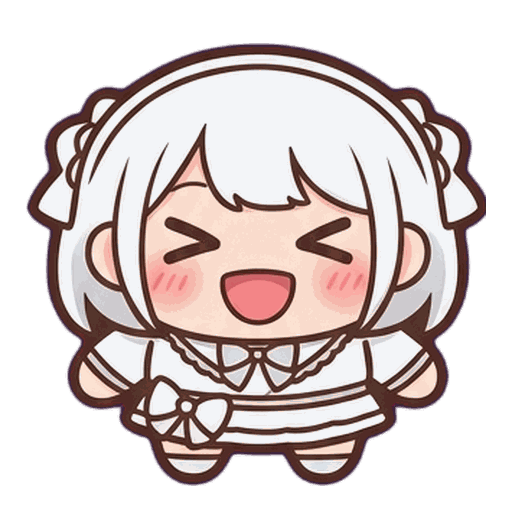
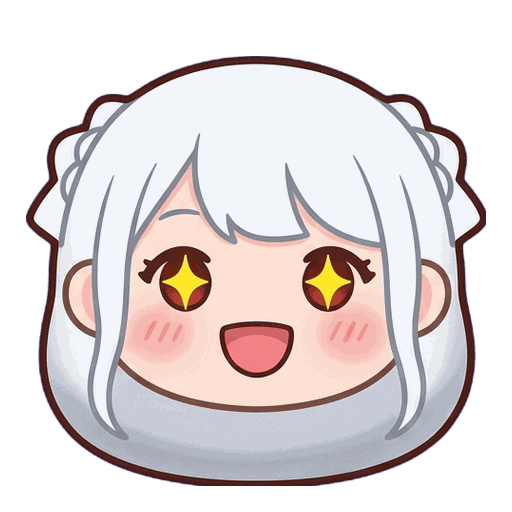
盤面の駒を顔だけ・ぷっくり 3D に作り直す
- 体があると跳ねたときに可愛くない、というオーナーの指摘。くるみで 6 案（ぷっくり 3D／ぬいぐるみ／缶バッジ／飴玉／マシュマロ大福／粘土）を試作して A に決定
- 5 人 × 4 表情（通常・笑顔・はじけ顔・フィーバー顔）の 20 枚を差し替え。フィーバー顔は全員星の目になった
- 結果画面のポーズは全身のまま
- scripts/gen_member_face.py・split_member_face.py（1 人 1 回、2×2 で生成して切り分ける）
- docs/member_pieces_gemini.md に「今の駒」の節

diff --git a/scripts/gen_member_face.py b/scripts/gen_member_face.py
@@ -1,0 +1,65 @@
+"""Generate one member's 4 head-only expressions (style A) with agy, save as raw/face_<key>.png.
+
+usage: python scripts/gen_member_face.py <key>   (repo root; needs raw/members_faces.png and raw/style_A_ref.png)
+Then: python scripts/split_member_face.py <key> assets/skins/members
+Prompt, agy output and errors are kept in raw/agy/ (git-ignored). See docs/member_pieces_gemini.md.
+"""
+import json, os, re, subprocess, sys
+from pathlib import Path
+from PIL import Image
+
+MEMBERS = {  # key: (column in raw/members_faces.png, description, extra fix)
+    'kurumi': (1, 'red hair with a red flower hair ornament', ''),
+    'mayu': (2, 'yellow hair', ''),
+    'mau': (3, 'light blue twin-tail hair', ''),
+    'ami': (4, 'green hair with a light green ribbon', ''),
+    'mana': (5, 'white hair with a white frilled headdress',
+             '- She is white: give her the same bold dark brown outline as the style reference and clear light gray shading on the white hair and headdress, so she is clearly visible on a white background. No white glow or haze.\n'),
+}
+
+PROMPT = """画像を 1 枚生成してください。添付は 2 枚です：raw/members_faces.png（デザインの見本）と raw/style_A_ref.png（質感の見本）。縦横比 1:1、最高解像度。
+画像の生成だけを行ってください。コマンドの実行・ファイルのコピーや変換・ほかのファイルの変更・git 操作はしないでください。
+最後に、生成された画像ファイルのフルパスだけを報告してください。
+
+--- prompt（一字も変えずに使う） ---
+Attachment 1 (members_faces.png) is a character sheet of 5 idols. Use ONLY the character in column {col} ({desc}) as the design reference: same face, eye color, hair color, bangs, hairstyle and hair accessory.
+Attachment 2 (style_A_ref.png) is the style reference: a HEAD-ONLY game piece with a smooth soft vinyl cushion look, soft top-left highlight, gentle shading at the bottom, a small shiny spot on the hair, bold dark brown outline. Match this style, shape and rendering exactly, but with the column {col} character.
+Draw a 2 x 2 grid of 4 pieces of this character, one expression per cell:
+- Top left, normal: glossy eyes with a white highlight, a tiny calm smile, soft pink blush.
+- Top right, happy: eyes closed in happy upward arcs, a small open joyful smile, slightly stronger blush.
+- Bottom left, surprised pop: wide round eyes, small round "O" mouth, puffed cheeks, the head slightly inflated like it is about to burst.
+- Bottom right, fever: sparkling yellow star-shaped eyes, a big wide-open excited smile, strong blush.
+Every piece is HEAD ONLY: no body, no neck, no arms. One plump round shape (a slightly squashed circle, wider than tall), the hair forming the round silhouette, hair accessories small and inside the silhouette. The only difference between the 4 cells is the face; hair, shape, size and lighting are identical.
+{fix}Each piece is centered in its own equal-size cell with a wide empty gap, never touching another piece or the image edges.
+Background: one solid flat magenta #FF00FF, perfectly uniform. No gradient, shadow or glow. Do not use magenta or hot pink on the character.
+Absolutely no text, letters, numbers, symbols or watermark. Square 1:1 image at the highest resolution.
+"""
+
+key = sys.argv[1]
+col, desc, fix = MEMBERS[key]
+out_dir = Path('raw/agy')
+out_dir.mkdir(parents=True, exist_ok=True)
+prompt = PROMPT.format(col=col, desc=desc, fix=fix)
+(out_dir / f'{key}_prompt.txt').write_text(prompt, encoding='utf-8')
+
+if os.environ.get('GEMINI_API_KEY') or os.environ.get('ANTIGRAVITY_API_KEY'):
+    sys.exit('API key is set: abort (would bill the API key instead of the subscription)')
+
+repo = str(Path.cwd())
+r = subprocess.run(['agy', '--output-format', 'json', '--print-timeout', '280s', '--add-dir', repo, '-p', prompt],
+                   capture_output=True, text=True, encoding='utf-8', shell=False)
+(out_dir / f'{key}_out.json').write_text(r.stdout, encoding='utf-8')
+(out_dir / f'{key}_err.txt').write_text(r.stderr, encoding='utf-8')
+try:
+    res = json.loads(r.stdout)
+except json.JSONDecodeError:
+    sys.exit(f'{key}: no JSON (exit {r.returncode}): {r.stderr[-500:]}')
+if res.get('status') != 'SUCCESS':
+    sys.exit(f'{key}: status {res.get("status")}: {res.get("response", "")[:500]}')
+m = re.search(r'[A-Za-z]:\\[^\s"]+\.(?:jpg|jpeg|png)', res.get('response', ''))
+if not m or not Path(m.group(0)).exists():
+    sys.exit(f'{key}: image path not found in response: {res.get("response", "")[:500]}')
+img = Image.open(m.group(0))
+dst = Path('raw') / f'face_{key}.png'
+img.convert('RGB').save(dst)
+print(f'{key}: {img.size} → {dst}  (conversation {res["conversation_id"]})')

diff --git a/scripts/split_member_face.py b/scripts/split_member_face.py
@@ -1,0 +1,16 @@
+"""Split raw/face_<key>.png (2x2: normal, happy / pop, fever) into <out>/<key>{,_happy,_pop,_fever}.png.
+
+usage: python scripts/split_member_face.py <key> <out dir>   (run from the lollpop_puzzle repo root)
+"""
+import subprocess, sys, shutil, tempfile
+from pathlib import Path
+
+key, out = sys.argv[1], Path(sys.argv[2])
+out.mkdir(parents=True, exist_ok=True)
+tmp = Path(tempfile.mkdtemp())
+subprocess.run([sys.executable, 'scripts/prepare_piece.py', f'raw/face_{key}.png', '--grid', '2x2',
+                '--members', 'c1,c2', '--rows', 'r1,r2', '--out', str(tmp)], check=True)
+names = {'c1_r1': key, 'c2_r1': f'{key}_happy', 'c1_r2': f'{key}_pop', 'c2_r2': f'{key}_fever'}
+for src, dst in names.items():
+    shutil.move(tmp / f'{src}.png', out / f'{dst}.png')
+print(key, '→', out)

diff --git a/docs/handoff.md b/docs/handoff.md
@@ -29,7 +29,9 @@
   - `CONFIG.skin.default` を `members` にした（2026-09-15 オーナー指示）。端末に選択が保存されていない人はメンバーの駒で始まる。タイトルの説明文は「同じ色のロリポップを…」のまま（直すかはオーナー次第）
   - **コミット 158335d → Cloudflare プレビューに公開済み**（2026-09-15、オーナー指示。Version 93703fa7）。公開前に `.assetsignore` へ `raw` `sheet*.png` を足した（参照写真を公開しないため）。公開後に `/.git/HEAD` `/raw/…` `/sheet.png` が 404、既定がメンバーの駒になることを確認。**push はまだ**
   - push したら claude-work に判断待ちの Issue を立てる（未 push のうちはリンクが切れるので保留していた）
-- **この作業分の確認は済んだ**（2026-09-15）：参照写真は公式アー写、絵柄とフィーバー顔はこのまま、BGM は合成のオリジナル曲（下の「決定事項」）。結果画面のポーズが少し甘い件は「一旦それで」
+- **駒を顔だけ・ぷっくり 3D に作り直した**（2026-09-15 午後）：くるみで 6 案を試作（`sandbox/lollpop_puzzle_eplus/face_styles/compare.png`）→ オーナーが A → 5 人 × 4 表情を 1 人 1 回ずつ生成（`scripts/gen_member_face.py`）→ `scripts/split_member_face.py` で 20 枚を差し替え。盤面・フィーバー・はじけを撮影で確認（`face_styles/gen/game_cmp.png`）、テスト 40 件通過。**未コミット・未公開**
+  - 気になる点：頭は横長なので、丸い当たり判定の上下に少しすき間が見える。まなのはじけ顔は目が丸い白目ではなく普通の目
+- **この作業分の確認は済んだ**（2026-09-15）：参照写真は公式アー写、BGM は合成のオリジナル曲（下の「決定事項」）。結果画面のポーズが少し甘い件は「一旦それで」
 - **次**：BGM（Web Audio の合成曲）の実装、またはオンボーディング W／A キャンディポップ。どれからにするかオーナーに聞く
 
 ## 目的と締切
@@ -68,7 +70,7 @@
 | 駒の見た目 | スキンで切り替え（飴／メンバー）。プレイヤーがタイトル画面の T8 で選べる。メンバーの絵が無いうちは「準備中」 |
 | メンバーの絵 | Gemini で公式写真からデフォルメを作る。**オーナーが運営に AI 作画の許諾を確認済み**（2026-09-14 申告）。プロンプトは [`member_pieces_gemini.md`](member_pieces_gemini.md) |
 | UI | `lollpop_docs/design.md` には従わない。**A キャンディポップ と E+ かわいいスタイリッシュ の 2 テーマ**をタイトル画面の T9 で切り替える。**E+ から実装**（実装済み）、A は次。E+ の色はラフのままで OK が出た |
-| メンバー駒の絵柄 | **このまま**（2026-09-15）。髪はメンバーカラー、足のある 2 頭身。フィーバー顔の目がそろっていない（星の目はくるみ・まゆだけ、まなは「><」）のも**このまま** |
+| メンバー駒の絵柄 | **盤面の駒は顔だけ・ぷっくり 3D**（2026-09-15 午後。体があると跳ねたときに可愛くない、とオーナー）。6 案の試作から A を選んだ。髪はメンバーカラー、フィーバー顔は全員星の目。**結果画面のポーズは全身のまま**。手順は [`member_pieces_gemini.md`](member_pieces_gemini.md) の「今の駒」 |
 | 参照写真の出典 | `lollpop_docs/work/game_assets/ref/members*.jpg` は**公式アー写**（2026-09-15 オーナー回答） |
 | BGM | **合成のオリジナル曲**（Web Audio でコードから鳴らす）に決定（2026-09-15）。requirements.md の「やらないこと」から外す |
 | リポジトリ | `devhitoshi/lollpop_puzzle`（公開） |

diff --git a/docs/member_pieces_gemini.md b/docs/member_pieces_gemini.md
@@ -19,6 +19,21 @@
 - 跳ねる・潰れる・揺れる・吹き飛ぶといった**動きはコードで作る**ので、コマ送りの絵は要らない
 - 無い絵は自動で代わりを使う（はじけ顔 → 笑顔 → 通常、フィーバー顔 → 通常、ポーズ → 出さない）。途中までの絵でも遊べる
 
+## 今の駒：顔だけ・ぷっくり 3D（2026-09-15〜）
+
+オーナーの判断：体があると跳ねたときに可愛くないので、**盤面の駒は顔だけ**にする。質感はくるみ 1 人で 6 案（ぷっくり 3D／ぬいぐるみ／缶バッジ／飴玉／マシュマロ大福／粘土）を試作して比べ、**A ぷっくり 3D** に決めた（盤面の実寸で顔と色が一番読める、つぶれても可愛い）。**結果画面のポーズ（`*_pose.png`）は全身のまま**。
+
+- 質感の見本：`raw/style_A_ref.png`（試作のくるみ。git の対象外）
+- 1 人 1 回、2×2（左上 通常・右上 笑顔・左下 はじけ・右下 フィーバー）、1:1、マゼンタ背景で Antigravity（`agy -p`）に生成させる。プロンプトの本文は `scripts/gen_member_face.py` の `PROMPT`、メンバーごとの違い（列番号・髪の説明・まなの輪郭の指定）は `MEMBERS`
+- 一括（20 体を 1 枚）にしないのは、体つきの版で細部が崩れ、まなだけ作り直しになったため
+
+```powershell
+python scripts/gen_member_face.py kurumi        # raw/face_kurumi.png。API キーの環境変数があると止まる（課金事故の防止）
+python scripts/split_member_face.py kurumi assets/skins/members
+```
+
+以下の節は、体つきの版（2026-09-14〜15）を作ったときの手順。ポーズを作り直すときに使う。
+
 ## 一括で作る（おすすめ：生成 2 回で 25 枚）
 
 表情を 1 枚にまとめて作るのは、別々に作ると表情ごとに顔の形・衣装・大きさがずれるため。
